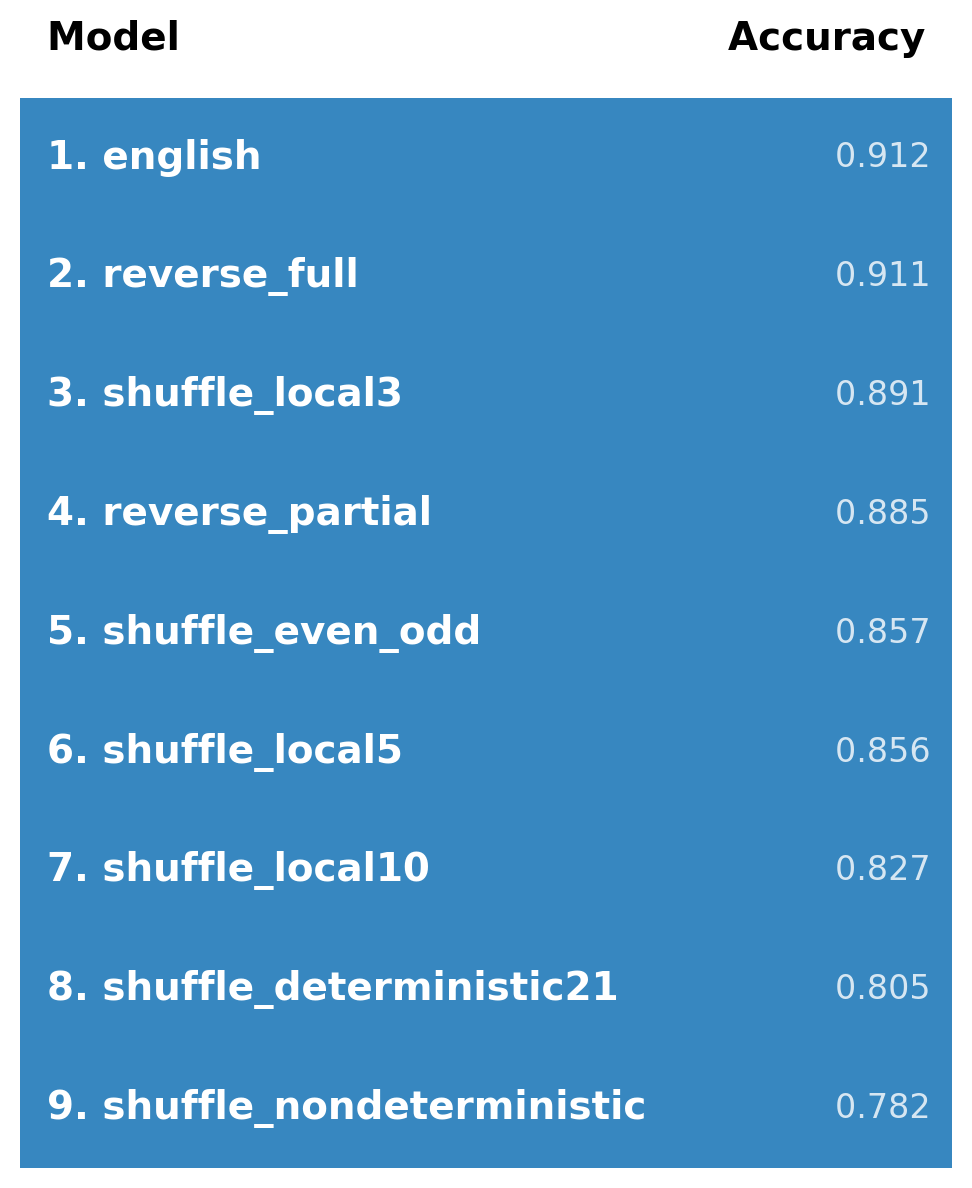
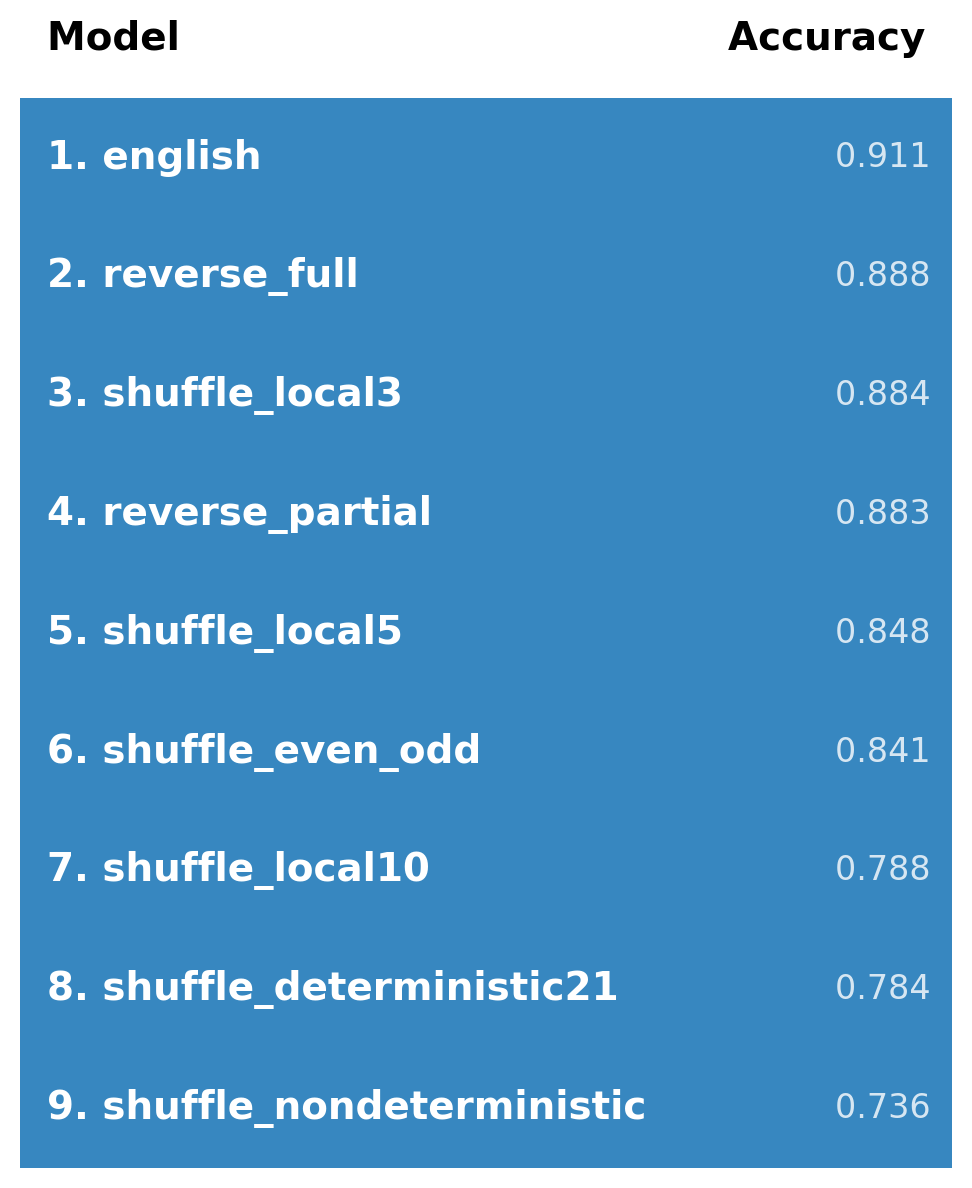
Generate new statistics based on v3 results

diff --git a/analysis/performance_statistics.py b/analysis/performance_statistics.py
@@ -6,23 +6,86 @@ import seaborn as sns
 import os
 from typing import List, Optional, Dict
 
+# =============================================================================
+# CSV PATH CONFIGURATION - Edit these to change data sources
+# =============================================================================
+RESULTS_CSV_PATH = "experiments/output/v3/results.csv"
+GRAMMATICAL_PHENOMENA_TABLE_CSV_PATH = "analysis/BLiMP/grammatical_phenomena_table.csv"
+DEP_STATS_CSV_PATH = "analysis/output/dep_stats.csv"
+OUTPUT_DIR = "analysis/output"
+
 # Edit this list to change which phenomena are included in the table
+# Complete list of all 69 phenomena from the v3 dataset
 PHENOMENA_LIST = [
     "adjunct_island",
     "anaphor_gender_agreement",
     "anaphor_number_agreement",
     "animate_subject_passive",
+    "animate_subject_trans",
+    "causative",
+    "complex_NP_island",
+    "coordinate_structure_constraint_complex_left_branch",
+    "coordinate_structure_constraint_object_extraction",
+    "coordinate_structure_constraint_subject_extraction",
+    "determiner_noun_agreement_1",
+    "determiner_noun_agreement_2",
+    "determiner_noun_agreement_irregular_1",
+    "determiner_noun_agreement_irregular_2",
+    "determiner_noun_agreement_with_adj_2",
+    "determiner_noun_agreement_with_adj_irregular_1",
+    "determiner_noun_agreement_with_adj_irregular_2",
+    "determiner_noun_agreement_with_adjective_1",
+    "distractor_agreement_relational_noun",
     "distractor_agreement_relative_clause",
+    "drop_argument",
     "ellipsis_n_bar_1",
+    "ellipsis_n_bar_2",
+    "existential_there_object_raising",
+    "existential_there_quantifiers_1",
+    "existential_there_quantifiers_2",
+    "existential_there_subject_raising",
+    "expletive_it_object_raising",
+    "inchoative",
+    "intransitive",
     "irregular_past_participle_adjectives",
+    "irregular_past_participle_verbs",
+    "irregular_plural_subject_verb_agreement_1",
+    "irregular_plural_subject_verb_agreement_2",
+    "left_branch_island_echo_question",
+    "left_branch_island_simple_question",
+    "matrix_question_npi_licensor_present",
+    "npi_present_1",
+    "npi_present_2",
+    "only_npi_licensor_present",
+    "only_npi_scope",
+    "passive_1",
+    "passive_2",
     "principle_A_c_command",
+    "principle_A_case_1",
+    "principle_A_case_2",
+    "principle_A_domain_1",
+    "principle_A_domain_2",
+    "principle_A_domain_3",
+    "principle_A_reconstruction",
+    "regular_plural_subject_verb_agreement_1",
+    "regular_plural_subject_verb_agreement_2",
+    "sentential_negation_npi_licensor_present",
+    "sentential_negation_npi_scope",
+    "sentential_subject_island",
+    "superlative_quantifiers_1",
+    "superlative_quantifiers_2",
+    "tough_vs_raising_1",
+    "tough_vs_raising_2",
+    "transitive",
+    "wh_island",
     "wh_questions_object_gap",
     "wh_questions_object_gap_long_distance",
     "wh_questions_subject_gap",
     "wh_questions_subject_gap_long_distance",
-    "left_branch_island_simple_question",
-    "determiner_noun_agreement_with_adj_2",
-    "existential_there_quantifiers_1"
+    "wh_vs_that_no_gap",
+    "wh_vs_that_no_gap_long_distance",
+    "wh_vs_that_with_gap",
+    "wh_vs_that_with_gap_long_distance",
 ]
 
 PHENOMENA_TO_DISPLAY_NAME = {
@@ -44,21 +107,88 @@ PHENOMENA_TO_DISPLAY_NAME = {
 }
 
 PHENOMENA_LIST_MAP = {
-    "adjunct_island": "island_effects",
+    # ANAPHOR AGREEMENT
     "anaphor_gender_agreement": "anaphor_agreement",
     "anaphor_number_agreement": "anaphor_agreement",
+    # ARGUMENT STRUCTURE
     "animate_subject_passive": "argument_structure",
-    "distractor_agreement_relative_clause": "subject_verb_agreement",
+    "animate_subject_trans": "argument_structure",
+    "causative": "argument_structure",
+    "drop_argument": "argument_structure",
+    "inchoative": "argument_structure",
+    "intransitive": "argument_structure",
+    "passive_1": "argument_structure",
+    "passive_2": "argument_structure",
+    "transitive": "argument_structure",
+    # BINDING
+    "principle_A_c_command": "binding",
+    "principle_A_case_1": "binding",
+    "principle_A_case_2": "binding",
+    "principle_A_domain_1": "binding",
+    "principle_A_domain_2": "binding",
+    "principle_A_domain_3": "binding",
+    "principle_A_reconstruction": "binding",
+    # CONTROL/RAISING
+    "existential_there_object_raising": "control_raise",
+    "existential_there_subject_raising": "control_raise",
+    "expletive_it_object_raising": "control_raise",
+    "tough_vs_raising_1": "control_raise",
+    "tough_vs_raising_2": "control_raise",
+    # DETERMINER-NOUN AGR.
+    "determiner_noun_agreement_1": "determiner_noun_agreement",
+    "determiner_noun_agreement_2": "determiner_noun_agreement",
+    "determiner_noun_agreement_irregular_1": "determiner_noun_agreement",
+    "determiner_noun_agreement_irregular_2": "determiner_noun_agreement",
+    "determiner_noun_agreement_with_adj_1": "determiner_noun_agreement",
+    "determiner_noun_agreement_with_adj_2": "determiner_noun_agreement",
+    "determiner_noun_agreement_with_adj_irregular_1": "determiner_noun_agreement",
+    "determiner_noun_agreement_with_adj_irregular_2": "determiner_noun_agreement",
+    "determiner_noun_agreement_with_adjective_1": "determiner_noun_agreement",  # v3 variant
+    # ELLIPSIS
     "ellipsis_n_bar_1": "ellipsis",
-    "irregular_past_participle_adjectives": "irregular_forms",
-    "principle_A_c_command": "binding", 
-    "wh_questions_object_gap": "filler_gap_dependency", 
-    "wh_questions_object_gap_long_distance": "filler_gap_dependency",
+    "ellipsis_n_bar_2": "ellipsis",
+    # FILLER GAP
+    "wh_questions_object_gap": "filler_gap_dependency",
+    "wh_questions_object_gap_long_distance": "filler_gap_dependency",  # v3 only
     "wh_questions_subject_gap": "filler_gap_dependency",
     "wh_questions_subject_gap_long_distance": "filler_gap_dependency",
+    "wh_vs_that_no_gap": "filler_gap_dependency",
+    "wh_vs_that_no_gap_long_distance": "filler_gap_dependency",
+    "wh_vs_that_with_gap": "filler_gap_dependency",
+    "wh_vs_that_with_gap_long_distance": "filler_gap_dependency",
+    # IRREGULAR FORMS
+    "irregular_past_participle_adjectives": "irregular_forms",
+    "irregular_past_participle_verbs": "irregular_forms",
+    # ISLAND EFFECTS
+    "adjunct_island": "island_effects",
+    "complex_NP_island": "island_effects",
+    "coordinate_structure_constraint_complex_left_branch": "island_effects",
+    "coordinate_structure_constraint_object_extraction": "island_effects",
+    "coordinate_structure_constraint_subject_extraction": "island_effects",  # v3 only
+    "left_branch_island_echo_question": "island_effects",
     "left_branch_island_simple_question": "island_effects",
-    "determiner_noun_agreement_with_adj_2": "determiner_noun_agreement",
-    "existential_there_quantifiers_1": "quantifiers"
+    "sentential_subject_island": "island_effects",
+    "wh_island": "island_effects",
+    # NPI LICENSING
+    "matrix_question_npi_licensor_present": "npi",
+    "npi_present_1": "npi",
+    "npi_present_2": "npi",
+    "only_npi_licensor_present": "npi",
+    "only_npi_scope": "npi",
+    "sentential_negation_npi_licensor_present": "npi",
+    "sentential_negation_npi_scope": "npi",
+    # QUANTIFIERS
+    "existential_there_quantifiers_1": "quantifiers",
+    "existential_there_quantifiers_2": "quantifiers",
+    "superlative_quantifiers_1": "quantifiers",
+    "superlative_quantifiers_2": "quantifiers",
+    # SUBJECT-VERB AGR.
+    "distractor_agreement_relational_noun": "subject_verb_agreement",
+    "distractor_agreement_relative_clause": "subject_verb_agreement",
+    "irregular_plural_subject_verb_agreement_1": "subject_verb_agreement",
+    "irregular_plural_subject_verb_agreement_2": "subject_verb_agreement",
+    "regular_plural_subject_verb_agreement_1": "subject_verb_agreement",
+    "regular_plural_subject_verb_agreement_2": "subject_verb_agreement",
 }
 
 PHENOMENA_ABR = {
@@ -191,8 +321,8 @@ def plot_ordering(
 def plot_model_ordering_from_csv(
     phenomena: List[str],
     skip_models: Optional[List[str]] = None,
-    csv_path: str = "experiments/output/v2/results.csv",
-    output_path: str = "analysis/output/model_ordering.png"
+    csv_path: str = RESULTS_CSV_PATH,
+    output_path: str = f"{OUTPUT_DIR}/model_ordering.png"
 ):
     """
     Calculates overall model performance on specific phenomena and plots their ordering.
@@ -233,8 +363,8 @@ def plot_model_ordering_from_csv(
 
 
 def plot_phenomenon_group_counts(
-    csv_path: str = "experiments/output/v2/results.csv",
-    output_path: str = "analysis/output/phenomenon_group_counts.png"
+    csv_path: str = RESULTS_CSV_PATH,
+    output_path: str = f"{OUTPUT_DIR}/phenomenon_group_counts.png"
 ):
     """
     Plots a PNG image: x-axis is phenomenon groups (PHENOMENA_ORDER, labeled with PHENOMENA_ABR),
@@ -269,8 +399,8 @@ def plot_phenomenon_group_counts(
     print(f"Phenomenon group counts image saved to {output_path}")
 
 def plot_model_group_performance_table(
-    csv_path: str = "experiments/output/v2/results.csv",
-    output_dir: str = "analysis/output",
+    csv_path: str = RESULTS_CSV_PATH,
+    output_dir: str = OUTPUT_DIR,
     output_filename: str = "model_group_performance_table.png"
 ):
     """
@@ -320,8 +450,8 @@ def plot_model_group_performance_table(
 
 def save_performance_table_image(
     phenomena: List[str] = PHENOMENA_LIST,
-    csv_path: str = "experiments/output/v2/results.csv",
-    output_dir: str = "analysis/output",
+    csv_path: str = RESULTS_CSV_PATH,
+    output_dir: str = OUTPUT_DIR,
     output_filename: str = "performance_table.png"
 ):
     """
@@ -371,7 +501,7 @@ def save_performance_table_image(
     plt.close()
     print(f"Performance table saved to {outpath}")
 
-def percent_non_english_best_model(csv_path="experiments/output/v2/results.csv"):
+def percent_non_english_best_model(csv_path=RESULTS_CSV_PATH):
     """
     Calculates the percentage of grammatical phenomena where the highest performing model was NOT 'english'.
     Also prints a table with, for every task, the accuracy of english and the accuracy/model of the best model.
@@ -480,7 +610,7 @@ def plot_ranking_comparison(
 # --- NEW FUNCTION ---
 def get_performance_ranking(
     phenomena: List[str],
-    csv_path: str = "experiments/output/v2/results.csv",
+    csv_path: str = RESULTS_CSV_PATH,
     skip_models: Optional[List[str]] = None,
     reverse: bool = True
 ) -> List[str]:
@@ -636,28 +766,38 @@ def plot_parallel_rankings(
     print(f"Parallel ranking plot saved to {output_path}")
 
 
+def get_phenomena_by_cue_reliability(
+    cue_reliability: str,
+    csv_path: str = GRAMMATICAL_PHENOMENA_TABLE_CSV_PATH
+) -> List[str]:
+    """
+    Reads the grammatical phenomena table CSV and returns a list of phenomena
+    filtered by cue reliability ("Strong" or "Weak"), sorted by 5-gram score.
     
+    Args:
+        cue_reliability: Either "Strong" or "Weak" to filter phenomena.
+        csv_path: Path to the grammatical phenomena table CSV.
+    
+    Returns:
+        List of dataset names (phenomena) matching the cue reliability,
+        sorted alphabetically by dataset name.
+    """
+    df = pd.read_csv(csv_path)
+    filtered = df[df["Cue Reliability"] == cue_reliability]
+    # Sort alphabetically by dataset name
+    sorted_df = filtered.sort_values(by="Dataset Name", ascending=True)
+    return sorted_df["Dataset Name"].tolist()
+
+
 def main():
     save_performance_table_image(PHENOMENA_LIST, output_filename="performance_table_overall.png")
-    local_ordering_phenomena = [
-        "anaphor_gender_agreement", "anaphor_number_agreement",
-        "existential_there_quantifiers_1",
-        "irregular_past_participle_adjectives",
-        "wh_questions_subject_gap", "wh_questions_subject_gap_long_distance",
-    ]
+    
+    # Strong cue reliability phenomena (dynamically loaded from CSV)
+    local_ordering_phenomena = get_phenomena_by_cue_reliability("Strong")
     save_performance_table_image(local_ordering_phenomena, output_filename="performance_table_local.png")
 
-    structural_phenomena = [
-        "adjunct_island",
-        "animate_subject_passive",
-        "determiner_noun_agreement_with_adj_2",
-        "distractor_agreement_relative_clause",
-        "ellipsis_n_bar_1",
-        "principle_A_c_command",
-        "wh_questions_object_gap",
-        "wh_questions_object_gap_long_distance",
-        "left_branch_island_simple_question",
-    ]
+    # Weak cue reliability phenomena (dynamically loaded from CSV)
+    structural_phenomena = get_phenomena_by_cue_reliability("Weak")
 
     save_performance_table_image(structural_phenomena, output_filename="performance_table_structural.png")
     # save_performance_table_image([
@@ -690,7 +830,7 @@ def main():
 
     # --- LOCAL PHENOMENA: CONSISTENCY COMPARISON ---
     print("\n--- Generating comparison plot for local phenomena rankings ---")
-    csv_file = "experiments/output/v2/results.csv"
+    csv_file = RESULTS_CSV_PATH
 
     # Models and scores for the "m-local" metric
     mlocal_labels = ["Base", "Reverse", "EvenOddShuffle", "LocalShuffle(K=3)", "LocalShuffle(K=5)", "LocalShuffle(K=7)", "DeterministicShuffle"]
@@ -740,7 +880,7 @@ def main():
     
     # Models and their scores for other structural metrics
     structural_models = MODEL_ORDER
-    dep_stats_filepath = "analysis/output/dep_stats.csv"
+    dep_stats_filepath = DEP_STATS_CSV_PATH
     df = pd.read_csv(dep_stats_filepath)
     grouped = df.groupby('perturbation')
     

diff --git a/analysis/BLiMP/generate_grammatical_phenomena_table.py b/analysis/BLiMP/generate_grammatical_phenomena_table.py
@@ -7,10 +7,8 @@ import matplotlib.pyplot as plt
 project_root = Path(__file__).resolve().parent.parent
 sys.path.append(str(project_root))
 
-
-# Phenomena that are always classified as Strong regardless of 5-gram score
-EXCEPTIONAL_STRONG_PHENOMENA = set()
-
+EXCEPTIONAL_STRONG_PHENOMENA = set(["anaphor_gender_agreement", "anaphor_number_agreement"])
+EXCEPTIONAL_WEAK_PHENOMENA = set(["left_branch_island_echo_question"])
 
 def classify_phenomena(threshold: int = 75, 
                        raw_scores_path: str = 'analysis/BLiMP/blimp_raw_scores.csv',
@@ -37,6 +35,8 @@ def classify_phenomena(threshold: int = 75,
     def classify_row(row):
         if row['UID'] in EXCEPTIONAL_STRONG_PHENOMENA:
             return 'Strong'
+        elif row['UID'] in EXCEPTIONAL_WEAK_PHENOMENA:
+            return 'Weak'
         return 'Strong' if pd.notna(row['5-gram']) and row['5-gram'] >= threshold else 'Weak'
     
     df['Classification'] = df.apply(classify_row, axis=1)
